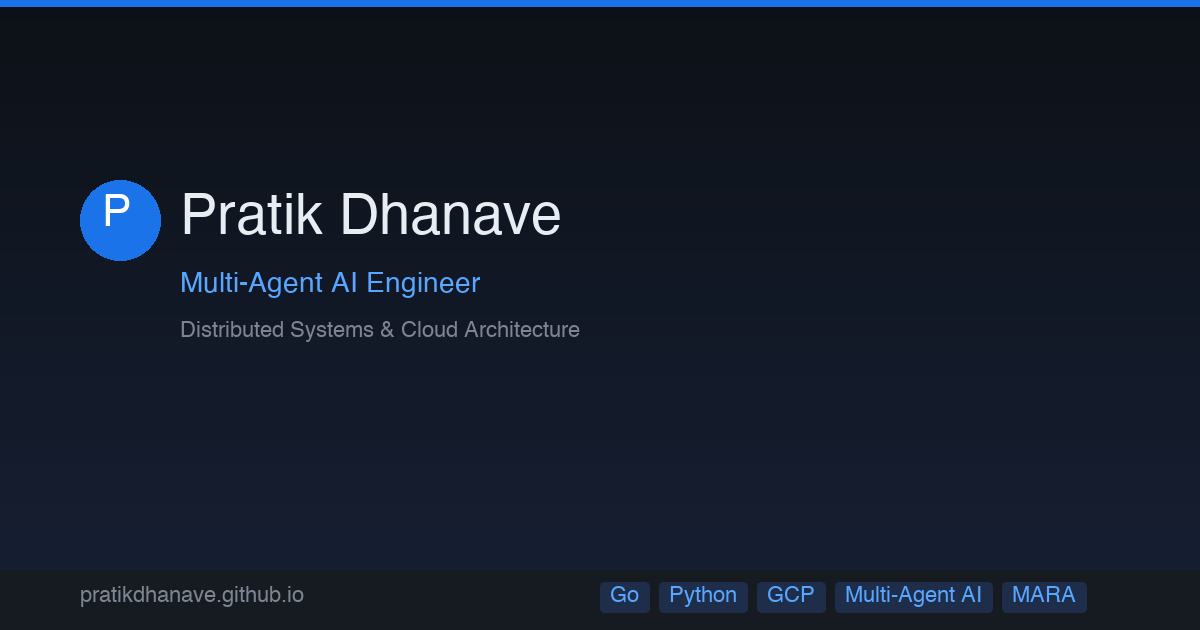
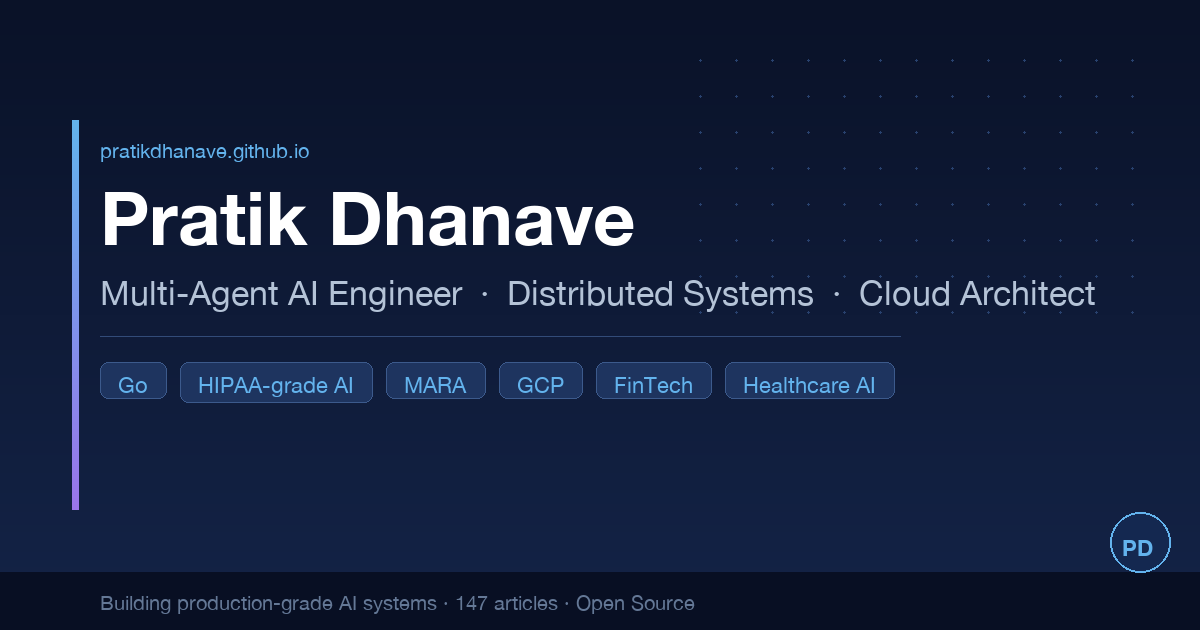
Add branded OG default image (1200x630px)
Fixes the critical missing og-default.png that every page references
in OG/Twitter meta tags. Social shares on LinkedIn/Twitter will now
show a proper preview card with name, title, skill chips and branding.

diff --git a/gen_og_image.py b/gen_og_image.py
@@ -1,0 +1,117 @@
+"""
+Generate og-default.png — the Open Graph / Twitter Card default image
+for pratikdhanave.github.io.
+
+Size: 1200x630px (standard OG image)
+Run:  python3 gen_og_image.py
+Output: og-default.png in the repo root
+"""
+
+from PIL import Image, ImageDraw, ImageFont
+import os
+
+W, H = 1200, 630
+
+# ── Colours ─────────────────────────────────────────────────────────────────
+BG_TOP      = (10,  18,  40)   # deep navy
+BG_BOTTOM   = (20,  36,  72)   # slightly lighter navy
+ACCENT      = (99, 179, 237)   # sky blue  (#63B3ED)
+ACCENT2     = (154, 117, 234)  # soft purple (#9A75EA)
+WHITE       = (255, 255, 255)
+LIGHT_GREY  = (180, 195, 215)
+DIM_GREY    = (100, 120, 150)
+
+# ── Font helper ──────────────────────────────────────────────────────────────
+FONT_PATHS = [
+    "/System/Library/Fonts/HelveticaNeue.ttc",
+    "/System/Library/Fonts/Helvetica.ttc",
+    "/Library/Fonts/Arial Unicode.ttf",
+    "/System/Library/Fonts/ArialHB.ttc",
+]
+
+def load_font(size, bold=False):
+    for path in FONT_PATHS:
+        if os.path.exists(path):
+            try:
+                # .ttc files: index 1 is often Bold for Helvetica Neue
+                idx = 1 if (bold and path.endswith(".ttc")) else 0
+                return ImageFont.truetype(path, size, index=idx)
+            except Exception:
+                continue
+    return ImageFont.load_default()
+
+# ── Canvas ───────────────────────────────────────────────────────────────────
+img  = Image.new("RGB", (W, H), BG_TOP)
+draw = ImageDraw.Draw(img)
+
+# Gradient background (top → bottom)
+for y in range(H):
+    t = y / H
+    r = int(BG_TOP[0] + (BG_BOTTOM[0] - BG_TOP[0]) * t)
+    g = int(BG_TOP[1] + (BG_BOTTOM[1] - BG_TOP[1]) * t)
+    b = int(BG_TOP[2] + (BG_BOTTOM[2] - BG_TOP[2]) * t)
+    draw.line([(0, y), (W, y)], fill=(r, g, b))
+
+# ── Decorative accent bar (left edge) ────────────────────────────────────────
+bar_w = 6
+for y in range(120, 510):
+    t = (y - 120) / (510 - 120)
+    r = int(ACCENT[0] + (ACCENT2[0] - ACCENT[0]) * t)
+    g = int(ACCENT[1] + (ACCENT2[1] - ACCENT[1]) * t)
+    b = int(ACCENT[2] + (ACCENT2[2] - ACCENT[2]) * t)
+    draw.line([(72, y), (72 + bar_w, y)], fill=(r, g, b))
+
+# ── Subtle dot-grid pattern (top-right quadrant) ─────────────────────────────
+for gx in range(700, 1160, 36):
+    for gy in range(60, 340, 36):
+        draw.ellipse([(gx-1, gy-1), (gx+1, gy+1)], fill=(40, 65, 110))
+
+# ── Fonts ─────────────────────────────────────────────────────────────────────
+f_tag    = load_font(20)
+f_name   = load_font(74, bold=True)
+f_title  = load_font(34)
+f_chips  = load_font(22)
+f_url    = load_font(20)
+
+# ── Tag line above name ───────────────────────────────────────────────────────
+TAG = "pratikdhanave.github.io"
+draw.text((100, 138), TAG, font=f_tag, fill=ACCENT)
+
+# ── Name ──────────────────────────────────────────────────────────────────────
+NAME = "Pratik Dhanave"
+draw.text((100, 172), NAME, font=f_name, fill=WHITE)
+
+# ── Title ─────────────────────────────────────────────────────────────────────
+TITLE = "Multi-Agent AI Engineer  ·  Distributed Systems  ·  Cloud Architect"
+draw.text((100, 272), TITLE, font=f_title, fill=LIGHT_GREY)
+
+# ── Thin separator line ───────────────────────────────────────────────────────
+draw.line([(100, 336), (900, 336)], fill=(50, 75, 120), width=1)
+
+# ── Skill chips ───────────────────────────────────────────────────────────────
+chips = ["Go", "HIPAA-grade AI", "MARA", "GCP", "FinTech", "Healthcare AI"]
+cx = 100
+cy = 362
+pad_x, pad_y, radius = 18, 10, 8
+
+for chip in chips:
+    bbox = draw.textbbox((0, 0), chip, font=f_chips)
+    tw = bbox[2] - bbox[0]
+    th = bbox[3] - bbox[1]
+    box = [cx, cy, cx + tw + pad_x * 2, cy + th + pad_y * 2]
+    draw.rounded_rectangle(box, radius=radius, fill=(30, 52, 95), outline=(60, 90, 140))
+    draw.text((cx + pad_x, cy + pad_y), chip, font=f_chips, fill=ACCENT)
+    cx += tw + pad_x * 2 + 14
+
+# ── Bottom strip ──────────────────────────────────────────────────────────────
+draw.rectangle([(0, H - 58), (W, H)], fill=(8, 15, 35))
+draw.text((100, H - 40), "Building production-grade AI systems · 147 articles · Open Source", font=f_url, fill=DIM_GREY)
+
+# ── Small accent circle (bottom-right branding dot) ──────────────────────────
+draw.ellipse([(1110, H - 58 - 60), (1170, H - 58)], fill=(20, 40, 80), outline=ACCENT, width=2)
+draw.text((1122, H - 58 - 38), "PD", font=load_font(22, bold=True), fill=ACCENT)
+
+# ── Save ──────────────────────────────────────────────────────────────────────
+OUT = os.path.join(os.path.dirname(__file__), "og-default.png")
+img.save(OUT, "PNG", optimize=True)
+print(f"✅ Saved {OUT}  ({W}x{H}px)")
